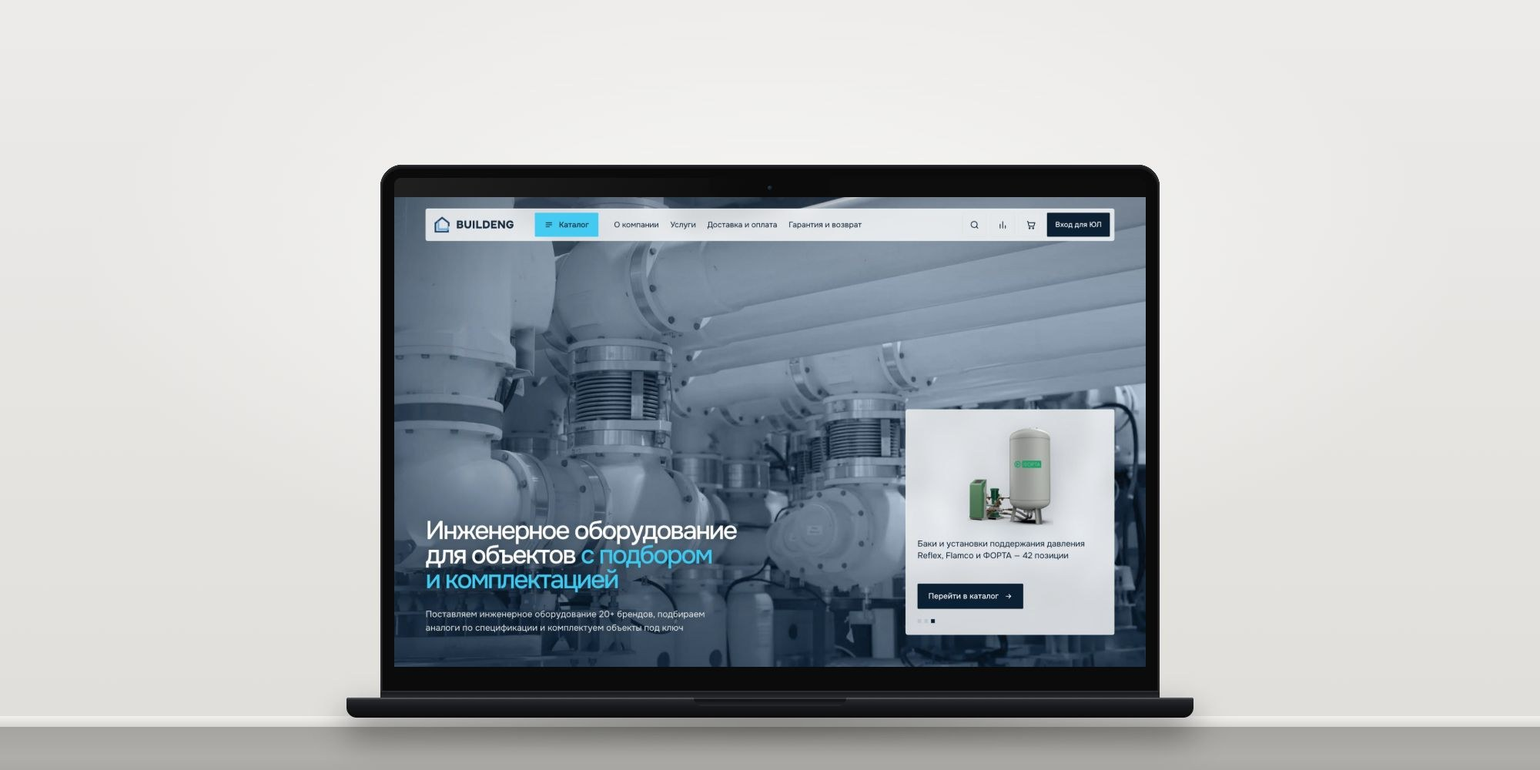
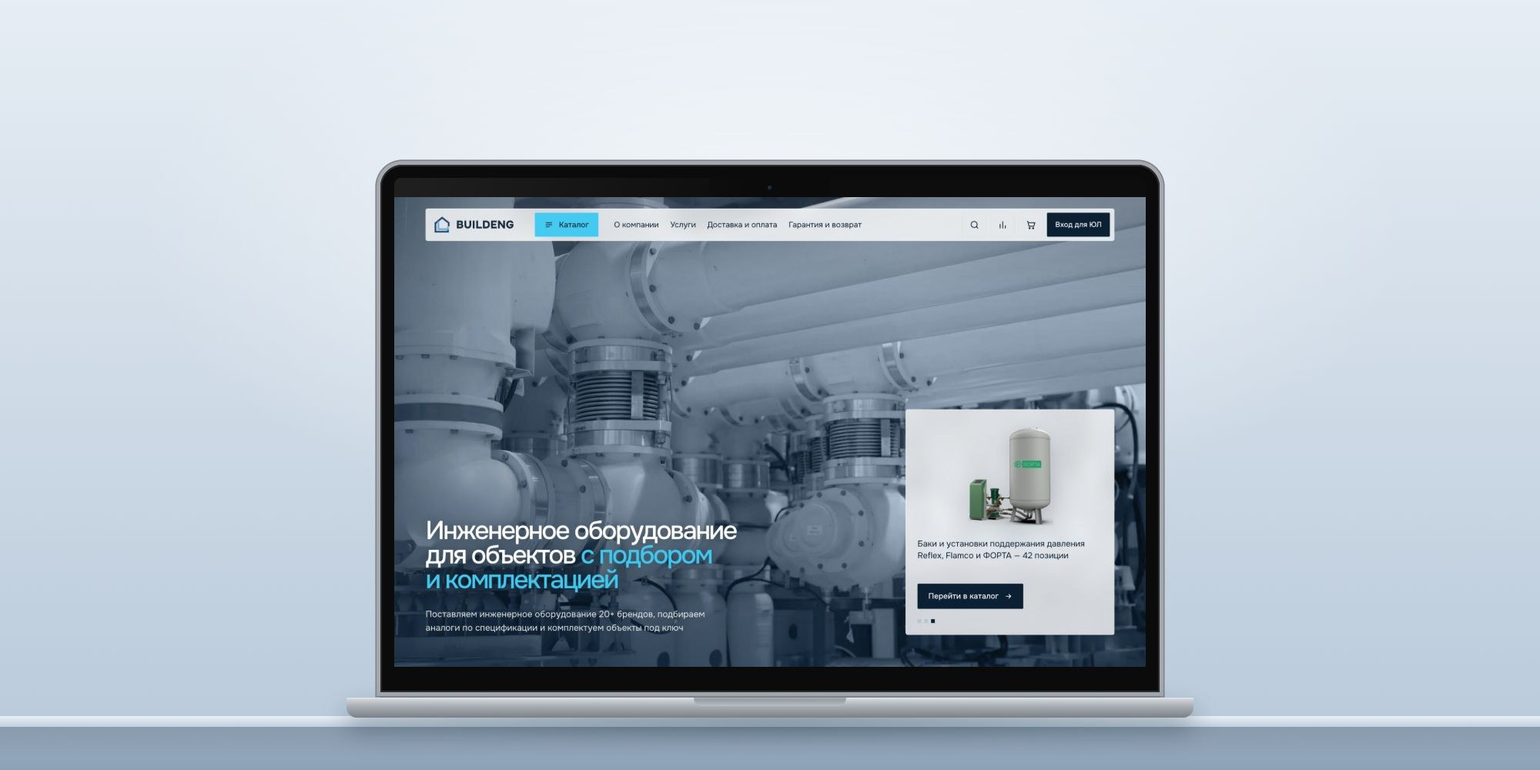
Merge experience into case cards; gray Mac on blue-gray BuildEng cover

Changed region(s): [[0.0, 0.217, 1.0, 1.0], [0.248, 0.186, 0.744, 0.217]]

diff --git a/index.html b/index.html
@@ -92,26 +92,28 @@ img{display:block;max-width:100%}
 .tabs button{height:36px;padding:0 16px;border-radius:999px;font-size:15px;color:var(--mute);white-space:nowrap;transition:background .3s,color .3s}
 .tabs button[aria-selected=true]{background:#fff;color:var(--ink);box-shadow:0 1px 3px rgba(0,0,0,.1)}
 .tabs button:hover{color:var(--ink)}
-.works{padding:9vh 0 14vh}
-.grid{display:grid;grid-template-columns:1fr 1fr;gap:56px var(--g)}
+.works{padding:7vh 0 14vh}
+.grid{display:grid;grid-template-columns:1fr;gap:64px}
 .card{display:flex;flex-direction:column;gap:14px;cursor:pointer;text-align:left;width:100%}
 .card.wide{grid-column:1/-1}
 .card[hidden]{display:none}
 .shot{position:relative;border-radius:var(--r);overflow:hidden;background:var(--c,var(--soft));aspect-ratio:4/3;clip-path:inset(7% 7% 7% 7% round var(--r));transition:clip-path 1.1s var(--ease)}
-.card.wide .shot{aspect-ratio:16/8}
+.card .shot{aspect-ratio:16/8}
 .shot img{width:100%;height:100%;object-fit:cover;scale:1.14;transition:scale 1.4s var(--ease)}
 .card.in .shot{clip-path:inset(0 0 0 0 round var(--r))}
 .card.in .shot img{scale:1}
 .card.in:hover .shot img{scale:1.035;transition-duration:.9s}
 .shot .lbl{position:absolute;top:14px;left:14px;padding:6px 11px;border-radius:999px;background:rgba(255,255,255,.9);backdrop-filter:blur(8px);font-size:13px;font-weight:500;color:var(--ink)}
-.meta{display:flex;align-items:flex-start;justify-content:space-between;gap:16px;opacity:0;transform:translateY(14px);transition:opacity .8s .25s var(--ease),transform .8s .25s var(--ease)}
+.meta{display:grid;grid-template-columns:1fr 1.9fr;gap:24px;padding:26px 0 34px;border-bottom:1px solid var(--line);opacity:0;transform:translateY(14px);transition:opacity .8s .25s var(--ease),transform .8s .25s var(--ease)}
 .card.in .meta{opacity:1;transform:none}
-.meta h3{font-weight:600;font-size:clamp(20px,1.8vw,24px);letter-spacing:-.02em;line-height:1.1;display:flex;align-items:center;gap:8px}
-.meta h3 i{font-style:normal;display:inline-block;transition:transform .4s var(--ease)}
-.card:hover .meta h3 i{transform:translate(3px,-3px)}
-.meta p{margin-top:6px;color:var(--mute);font-size:15px;line-height:1.35;max-width:46ch}
-.tags{display:flex;flex-wrap:wrap;justify-content:flex-end;gap:6px;flex-shrink:0;max-width:50%}
-.tags span{padding:7px 12px;border-radius:999px;background:var(--soft);font-size:14px;white-space:nowrap}
+.meta h3{font-weight:600;font-size:clamp(19px,1.6vw,22px);letter-spacing:-.01em;line-height:1.25}
+.meta small{display:block;color:var(--mute);font-size:15px;line-height:1.4;margin-top:6px}
+.meta p{font-size:18px;line-height:1.55;max-width:36em}
+.meta .lnk{display:inline-flex;gap:6px;margin-top:14px;font-size:16px;text-decoration:underline;text-underline-offset:4px;text-decoration-thickness:1px;transition:color .2s}
+.meta .lnk i{font-style:normal;text-decoration:none;display:inline-block;transition:transform .35s var(--ease)}
+.card:hover .meta .lnk{color:var(--acc)}
+.card:hover .meta .lnk i{transform:translate(3px,-3px)}
+.meta .note{display:inline-block;margin-left:10px;font-size:14px}
 .cursor{position:fixed;left:0;top:0;z-index:25;width:92px;height:92px;margin:-46px 0 0 -46px;border-radius:50%;background:var(--ink);color:#fff;display:grid;place-items:center;font-size:14px;font-weight:500;pointer-events:none;scale:0;transition:scale .35s var(--ease)}
 .cursor.on{scale:1}
 @media (hover:none){.cursor{display:none}}
@@ -157,9 +159,9 @@ footer a:hover{color:var(--ink)}
 .next img{width:min(28vw,280px);aspect-ratio:4/3;object-fit:cover;border-radius:14px}
 
 @media (max-width:900px){
-  .about,.job,.ctrow,.cgrid{grid-template-columns:1fr;gap:12px}
-  .grid{grid-template-columns:1fr;gap:44px}
-  .card .shot,.card.wide .shot{aspect-ratio:4/3}
+  .about,.job,.ctrow,.cgrid,.meta{grid-template-columns:1fr;gap:12px}
+  .grid{gap:44px}
+  .card .shot{aspect-ratio:4/3}
 }
 @media (max-width:620px){
   .top{gap:12px}
@@ -167,8 +169,6 @@ footer a:hover{color:var(--ink)}
   .top nav .hide-s{display:none}
   .gallery figure.duo{grid-template-columns:1fr}
   .next img{display:none}
-  .meta{flex-direction:column;gap:10px}
-  .tags{justify-content:flex-start;max-width:none}
 }
 @media (prefers-reduced-motion:reduce){*{transition-duration:.01s!important;animation-duration:.01s!important}html{scroll-behavior:auto}}
 </style>
@@ -186,29 +186,6 @@ footer a:hover{color:var(--ink)}
   <div class="here rv"><span id="clock">Краснодар</span><a href="mailto:alinagradinar99@gmail.com">alinagradinar99@gmail.com</a><a href="https://t.me/alinagrr" target="_blank" rel="noopener">Telegram ↗</a></div>
   <h1 class="hl" id="hl">UX/UI и веб-дизайнер. Проектирую сложные интерфейсы, сайты для <em>B2C, B2B, E&#8209;commerce, EdTech</em></h1>
   <p class="sub rv"><b>4+ года опыта.</b> Проектирую сайты и цифровые продукты: от корпоративных сайтов и лендингов до сложных сервисов с личными кабинетами, каталогами и AI-функциями.</p>
-
-  <div class="exp">
-    <div class="job rv">
-      <div class="k">Forbes Games<small>Спецпроект для Forbes<br>Silver Mercury, 2026</small></div>
-      <div><p>Спроектировала игровой раздел на сайте Forbes: квизы на эрудицию, логику и стратегию для десктопа и мобайла. Проект получил Silver Mercury в номинации «Лучший диджитал-проект».</p><button class="lnk" data-open="forbes">Смотреть кейс</button></div>
-    </div>
-    <div class="job rv">
-      <div class="k">AI-сервис для интерьера<small>Продукт под NDA<br>в работе</small></div>
-      <div><p>Проектирую веб- и мобильную версию ИИ-платформы, которая по фото делает редизайн, меблировку и визуализацию: дашборд, сценарии генерации, библиотеку проектов.</p><button class="lnk" data-open="ai">Смотреть кейс</button></div>
-    </div>
-    <div class="job rv">
-      <div class="k">Авиакомпания «Ямал»<small>Сайт и личный кабинет</small></div>
-      <div><p>Сайт авиакомпании, личный кабинет пассажира и сценарий оформления заказа.</p><button class="lnk" data-open="yamal">Смотреть кейс</button></div>
-    </div>
-    <div class="job rv">
-      <div class="k">REUZEit<small>B2B-маркетплейс, США</small></div>
-      <div><p>Калифорнийская платформа для продажи б/у лабораторного и промышленного оборудования: личный кабинет компании с заявками, заказами, проектами и календарём вывоза.</p><button class="lnk" data-open="reuzeit">Смотреть кейс <small>(на английском)</small></button></div>
-    </div>
-    <div class="job rv">
-      <div class="k">Сайты и концепты<small>Корпоративные сайты,<br>лендинги, каталоги</small></div>
-      <div><p>Корпоративный сайт Сибгипрошахта, лендинг Aquro, концепции сайтов для ГК «Ультра» и BuildEng, генерация изображений нейросетями.</p><a class="lnk" href="#work">Все проекты ниже ↓</a></div>
-    </div>
-  </div>
 
 </section>
 
@@ -246,61 +223,61 @@ footer a:hover{color:var(--ink)}
 
 <script>
 const P=[
- {id:'forbes',f:'site',wide:1,t:'Forbes Games',cat:'Спецпроект · Веб и мобайл',c:'#0d0b08',cover:'img/cover-forbes.jpg',coverW:'img/cover-forbes-w.jpg',
+ {id:'forbes',sub:'Спецпроект для Forbes<br>Silver Mercury, 2026',d:'Спроектировала игровой раздел на сайте Forbes: квизы на эрудицию, логику и стратегию для десктопа и мобайла. Проект получил Silver Mercury в номинации «Лучший диджитал-проект».',note:'',f:'site',t:'Forbes Games',cat:'Спецпроект · Веб и мобайл',c:'#0d0b08',cover:'img/cover-forbes.jpg',coverW:'img/cover-forbes-w.jpg',
   tags:['Веб','Мобайл','2026'],award:'Silver Mercury',
   s:'Игровой раздел на сайте Forbes. Silver Mercury в номинации «Лучший диджитал-проект».',
   facts:[['Клиент','Forbes Russia'],['Роль','UX/UI-дизайн'],['Платформы','Десктоп и мобайл'],['Награда','Silver Mercury 2026']],
   text:['Интеллектуальные игры для читателей Forbes: квизы на эрудицию, логику и стратегию прямо на сайте издания.','Спроектировала главную игрового раздела и сценарий квиза: старт, вопросы с подсказкой из материалов Forbes, результат и переход к подписке. Тёмная подача с золотыми акцентами продолжает стиль бренда.'],
   url:'https://games.forbes.ru/',urlT:'Открыть Forbes Games',
   gal:[{src:'img/forbes-laptop.jpg'},{duo:['img/forbes-phone.jpg','img/forbes-start.jpg']},{src:'img/forbes.jpg'}]},
- {id:'ultra',f:'concept',t:'ГК «Ультра»',cat:'Концепт · Сайт производителя',c:'#2a1f4d',cover:'img/cover-ultra.jpg',coverW:'img/cover-ultra-w.jpg',label:'Концепт',
+ {id:'ultra',sub:'Концепт сайта<br>производитель КИПиА',d:'Концепция сайта российского производителя расходомеров и уровнемеров: главная со сценой «внутрь прибора», каталог с умным фильтром и карточка прибора с запросом ТКП.',note:'',f:'concept',t:'ГК «Ультра»',cat:'Концепт · Сайт производителя',c:'#2a1f4d',cover:'img/cover-ultra.jpg',coverW:'img/cover-ultra-w.jpg',label:'Концепт',
   tags:['Концепт','Каталог','B2B'],
   s:'Концепция сайта российского производителя расходомеров и уровнемеров.',
   facts:[['Клиент','ГК «Ультра»'],['Роль','Концепция, UX/UI'],['Страницы','Главная, каталог, карточка'],['Год','2026']],
   text:['Задача — показать производителя КИПиА технологичной компанией с собственной метрологической базой и сделать каталог сложных приборов понятным.','Тёмная техническая эстетика, 3D-прибор на первом экране и сцена «внутрь прибора» при прокрутке. В каталоге — умный фильтр по среде, сигналу и исполнению, «подбор за 10 секунд» на главной и карточка прибора с ключевыми характеристиками и запросом ТКП.'],
   url:'https://alinagradinar99-afk.github.io/ultra-concept/',urlT:'Смотреть концепт',
   gal:[{src:'img/ultra-home.jpg'},{src:'img/ultra-catalog.jpg'},{src:'img/ultra-product.jpg'}]},
- {id:'ai',f:'product',t:'AI-сервис для интерьера',cat:'Продукт · NDA',c:'#e3ddf3',cover:'img/cover-ai.jpg',coverW:'img/cover-ai-w.jpg',label:'NDA · в работе',
+ {id:'ai',sub:'Продукт под NDA<br>в работе',d:'Проектирую веб- и мобильную версию ИИ-платформы, которая по фото делает редизайн, меблировку и визуализацию: дашборд, сценарии генерации, библиотеку проектов.',note:'',f:'product',t:'AI-сервис для интерьера',cat:'Продукт · NDA',c:'#e3ddf3',cover:'img/cover-ai.jpg',coverW:'img/cover-ai-w.jpg',label:'NDA · в работе',
   tags:['Продукт','AI','Мобайл'],
   s:'ИИ-платформа: по фото делает редизайн, меблировку и визуализацию за минуты.',
   facts:[['Клиент','NDA'],['Роль','UX/UI-дизайн продукта'],['Платформы','Веб и мобайл'],['Статус','В работе']],
   text:['ИИ-платформа для интерьера: по фотографии создаёт или улучшает пространство — от ремонта и меблировки до готовой визуализации.','Проектирую веб- и мобильную версию: дашборд, сценарии редизайна, меблировки и расхламления, выбор параметров генерации, библиотеку проектов и уведомления. Экраны скрыты по NDA.'],
   gal:[{src:'img/interior.jpg'},{src:'img/ai-mobile.jpg'}]},
- {id:'buildeng',f:'concept',t:'BuildEng',cat:'Концепт · B2B e-commerce',c:'#b9cad9',cover:'img/cover-buildeng.jpg?v=4',coverW:'img/cover-buildeng-w.jpg?v=4',label:'Концепт',
+ {id:'buildeng',sub:'Концепт главной<br>B2B e-commerce',d:'Концепция главной для поставщика инженерного оборудования: поиск по названию, артикулу и бренду, каталог категорий с брендами и блок подбора инженерных решений.',note:'',f:'concept',t:'BuildEng',cat:'Концепт · B2B e-commerce',c:'#b9cad9',cover:'img/cover-buildeng.jpg?v=5',coverW:'img/cover-buildeng-w.jpg?v=5',label:'Концепт',
   tags:['Концепт','E-com','B2B'],
   s:'Концепция главной для поставщика инженерного оборудования.',
   facts:[['Клиент','BuildEng'],['Роль','Концепция, UX/UI'],['Объём','Главная страница, десктоп'],['Год','2026']],
   text:['Задача — показать поставщика инженерного оборудования современной технологичной компанией: экспертиза B2B и удобство интернет-магазина.','Шапка с поиском по названию, артикулу и бренду, регионом и входом для юрлиц; первый экран с видео и подборкой оборудования; каталог категорий с брендами и количеством позиций; блок инженерных решений и подбора.'],
   url:'https://alinagradinar99-afk.github.io/buildeng-site/',urlT:'Смотреть концепт',
   gal:[{src:'img/buildeng-home.jpg'},{src:'img/buildeng-catalog.jpg'}]},
- {id:'yamal',f:'site',t:'Авиакомпания «Ямал»',cat:'Сайт · Личный кабинет',c:'#2f6aa8',cover:'img/cover-yamal.jpg',coverW:'img/cover-yamal-w.jpg',
+ {id:'yamal',sub:'Сайт и личный кабинет',d:'Сайт авиакомпании, личный кабинет пассажира и сценарий оформления заказа.',note:'',f:'site',t:'Авиакомпания «Ямал»',cat:'Сайт · Личный кабинет',c:'#2f6aa8',cover:'img/cover-yamal.jpg',coverW:'img/cover-yamal-w.jpg',
   tags:['Веб','Личный кабинет'],
   s:'Сайт авиакомпании, личный кабинет пассажира и оформление заказа.',
   facts:[['Клиент','Авиакомпания «Ямал»'],['Роль','UX/UI-дизайн'],['Объём','Сайт, ЛК, заказ'],['Тип','Веб-сервис']],
   text:['Сайт авиакомпании с личным кабинетом пассажира и сценарием оформления заказа.'],
   gal:[{src:'img/yamal.jpg'}]},
- {id:'reuzeit',f:'product',wide:1,t:'REUZEit',cat:'Продукт · B2B-маркетплейс',c:'#1d7a47',cover:'img/cover-reuzeit.jpg',coverW:'img/cover-reuzeit-w.jpg',
+ {id:'reuzeit',sub:'B2B-маркетплейс, США',d:'Калифорнийская платформа для продажи б/у лабораторного и промышленного оборудования: личный кабинет компании с заявками, заказами, проектами и календарём вывоза.',note:'на английском',f:'product',t:'REUZEit',cat:'Продукт · B2B-маркетплейс',c:'#1d7a47',cover:'img/cover-reuzeit.jpg',coverW:'img/cover-reuzeit-w.jpg',
   tags:['Маркетплейс','B2B','США'],
   s:'Калифорнийская платформа для продажи б/у лабораторного и промышленного оборудования.',
   facts:[['Клиент','REUZEit, США'],['Роль','UX/UI-дизайн'],['Тип','B2B-маркетплейс'],['Язык','Английский']],
   text:['Платформа из Калифорнии для продажи и покупки б/у лабораторного, медицинского и промышленного оборудования.','Личный кабинет компании: заявки, заказы, проекты, календарь вывоза и статистика по повторно использованному оборудованию.'],
   url:'https://reuzeit.com/',urlT:'Открыть reuzeit.com',
   gal:[{src:'img/reuzeit.jpg'}]},
- {id:'sgsh',f:'site',t:'Сибгипрошахт',cat:'Сайт · Корпоративный',c:'#1b1b1b',cover:'img/cover-sgsh.jpg',coverW:'img/cover-sgsh-w.jpg',
+ {id:'sgsh',sub:'Корпоративный сайт',d:'Корпоративный сайт проектного института, который проектирует обогатительные фабрики, шахты и разрезы.',note:'',f:'site',t:'Сибгипрошахт',cat:'Сайт · Корпоративный',c:'#1b1b1b',cover:'img/cover-sgsh.jpg',coverW:'img/cover-sgsh-w.jpg',
   tags:['Корпоративный сайт'],
   s:'Корпоративный сайт проектного института для горной отрасли.',
   facts:[['Клиент','Сибгипрошахт'],['Роль','UX/UI-дизайн'],['Тип','Корпоративный сайт'],['Адаптив','Десктоп и мобайл']],
   text:['Корпоративный сайт института, который проектирует обогатительные фабрики, шахты и разрезы.'],
   url:'https://sgsh.ru/',urlT:'Открыть sgsh.ru',
   gal:[{src:'img/sgsh.gif'}]},
- {id:'aquro',f:'site',t:'Aquro',cat:'Сайт · Лендинг',c:'#dcd5e6',cover:'img/cover-aquro.jpg',coverW:'img/cover-aquro-w.jpg',
+ {id:'aquro',sub:'Лендинг с каталогом',d:'Продуктовый лендинг бренда бутылок и термокружек с каталогом продукции.',note:'',f:'site',t:'Aquro',cat:'Сайт · Лендинг',c:'#dcd5e6',cover:'img/cover-aquro.jpg',coverW:'img/cover-aquro-w.jpg',
   tags:['Лендинг','Каталог'],
   s:'Продуктовый лендинг с каталогом продукции.',
   facts:[['Клиент','Aquro'],['Роль','UX/UI-дизайн'],['Тип','Лендинг с каталогом'],['Сайт','aquro.ru']],
   text:['Продуктовый лендинг с каталогом продукции.'],
   url:'https://aquro.ru/',urlT:'Открыть aquro.ru',
   gal:[{src:'img/aquro.jpg'}]},
- {id:'gen',f:'product',wide:1,t:'Генерация изображений',cat:'AI-визуалы',c:'#170e10',cover:'img/cover-gen.jpg',coverW:'img/cover-gen-w.jpg',
+ {id:'gen',sub:'AI-визуалы',d:'Предметные изображения и визуалы, созданные с помощью нейросетей.',note:'',f:'product',t:'Генерация изображений',cat:'AI-визуалы',c:'#170e10',cover:'img/cover-gen.jpg',coverW:'img/cover-gen-w.jpg',
   tags:['AI','Визуалы'],
   s:'Предметные изображения и визуалы, созданные с помощью нейросетей.',
   facts:[['Тип','AI-визуалы'],['Роль','Генерация изображений']],
@@ -327,12 +304,12 @@ document.querySelectorAll('.rv,.photo').forEach(el=>io.observe(el));
 
 // ── projects ──
 const grid=$('#grid');
-const src=(p,wd)=>wd&&innerWidth>900?p.coverW:p.cover;
-addEventListener('resize',()=>grid.querySelectorAll('.card').forEach(c=>{c.querySelector('.shot img').src=src(P[c.dataset.i],c.classList.contains('wide'))}));
+const src=p=>innerWidth>900?p.coverW:p.cover;
+addEventListener('resize',()=>grid.querySelectorAll('.card').forEach(c=>{c.querySelector('.shot img').src=src(P[c.dataset.i])}));
 P.forEach((p,i)=>{
-  const b=document.createElement('button');b.className='card'+(p.wide?' wide':'');b.dataset.i=i;b.dataset.f=p.f;
-  b.innerHTML=`<div class="shot" style="--c:${p.c}"><img src="${src(p,p.wide)}" alt="${p.t}" loading="lazy">${p.label?`<span class="lbl">${p.label}</span>`:''}</div>
-  <div class="meta"><div><h3>${p.t} <i>↗</i></h3><p>${p.s}</p></div><div class="tags">${p.tags.map(t=>`<span>${t}</span>`).join('')}</div></div>`;
+  const b=document.createElement('button');b.className='card';b.dataset.i=i;b.dataset.f=p.f;
+  b.innerHTML=`<div class="shot" style="--c:${p.c}"><img src="${src(p)}" alt="${p.t}" loading="lazy">${p.label?`<span class="lbl">${p.label}</span>`:''}</div>
+  <div class="meta"><div class="k"><h3>${p.t}</h3><small>${p.sub}</small></div><div><p>${p.d}</p><span class="lnk">Смотреть кейс <i>↗</i></span>${p.note?`<small class="note">(${p.note})</small>`:''}</div></div>`;
   b.onclick=()=>show(i);
   grid.append(b);io.observe(b);
 });
@@ -340,7 +317,6 @@ document.querySelectorAll('.tabs button').forEach(b=>b.onclick=()=>{
   document.querySelectorAll('.tabs button').forEach(x=>x.setAttribute('aria-selected',x===b));
   const f=b.dataset.f;let n=0;
   grid.querySelectorAll('.card').forEach(c=>{const on=f==='all'||c.dataset.f===f;c.hidden=!on;if(on)n++;
-    const wd=f==='all'&&!!P[c.dataset.i].wide;c.classList.toggle('wide',wd);c.querySelector('.shot img').src=src(P[c.dataset.i],wd);
     if(on){c.classList.remove('in');requestAnimationFrame(()=>requestAnimationFrame(()=>c.classList.add('in')))}});
   
 });
